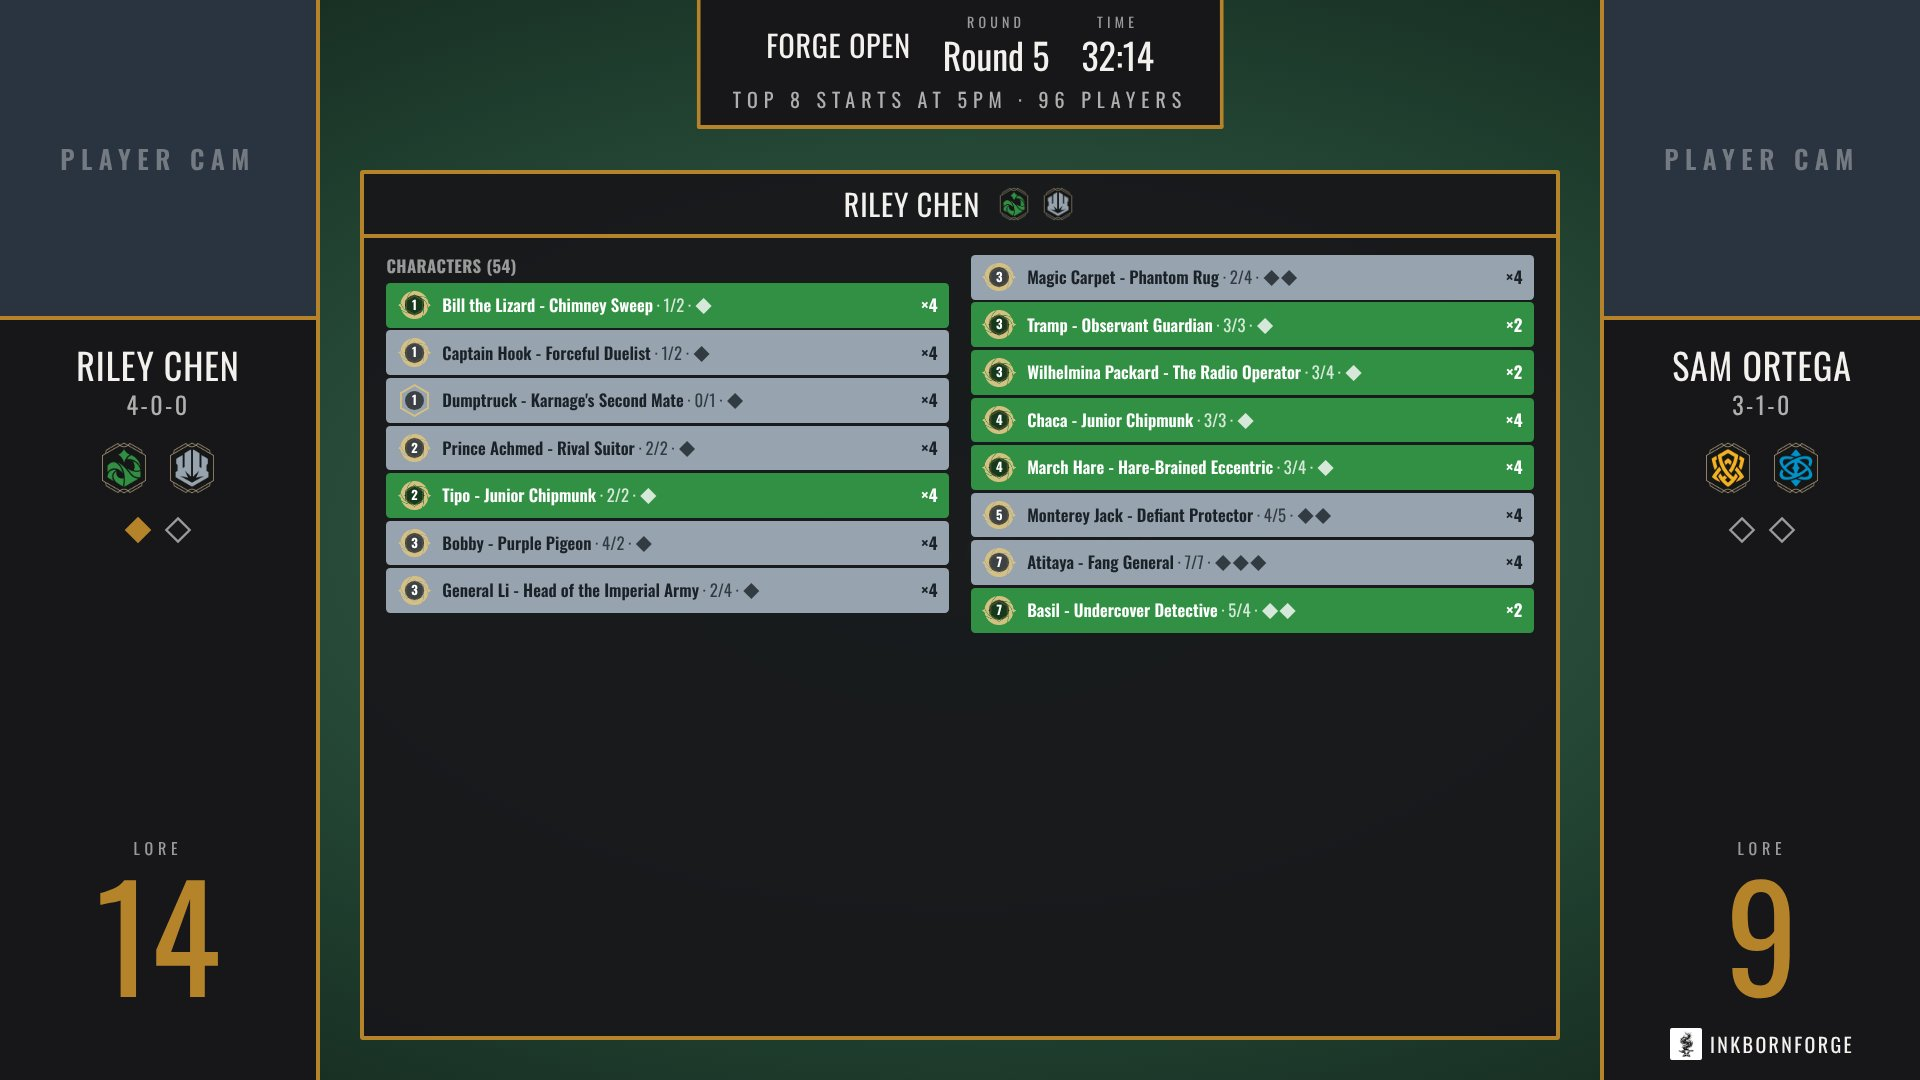
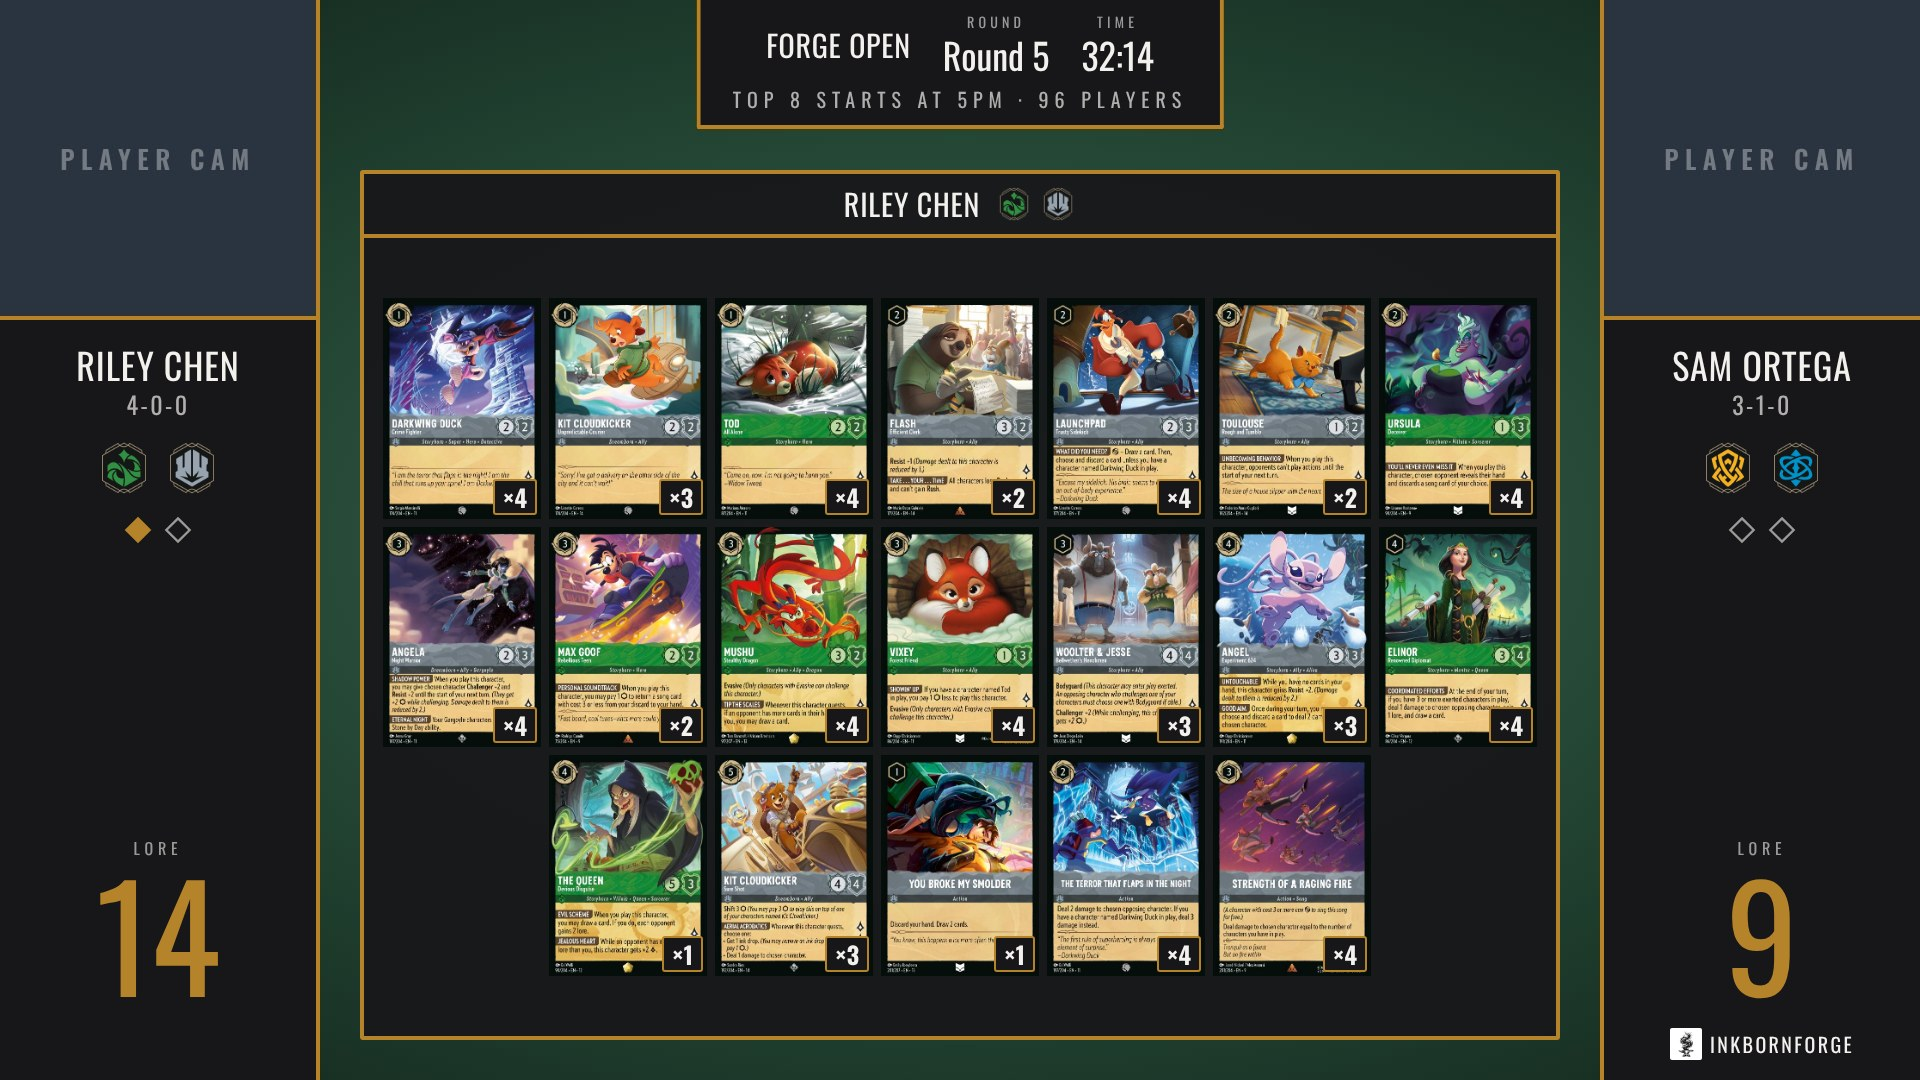
Blog: refresh the Stream Overlay decklist screenshot
The decklist panel now shows card images; the setup post's view-deck.jpg
is retaken with a real Emerald/Steel list over the same backdrop as the
post's other overlay shots.

Claude-Session: https://claude.ai/code/session_01TJQgt2NkzskBcLqYyXbaBB

diff --git a/content/blog/stream-overlay-setup.md b/content/blog/stream-overlay-setup.md
@@ -93,7 +93,7 @@ The space over the gameplay cam can hold one thing at a time. Each **Show on str
 
 **A decklist.** Click **Show on stream** under either player's decklist to lay it over the gameplay cam.
 
-![A player's decklist over the gameplay cam, grouped by type and sorted by cost](/blog/stream-overlay-setup/view-deck.jpg)
+![A player's decklist over the gameplay cam as card images: characters, then actions and songs, items and locations, each by cost](/blog/stream-overlay-setup/view-deck.jpg)
 
 **The player card.** From the **Player card** card, put both players' histories and their head-to-head on screen. It's a good fit between games.
 
